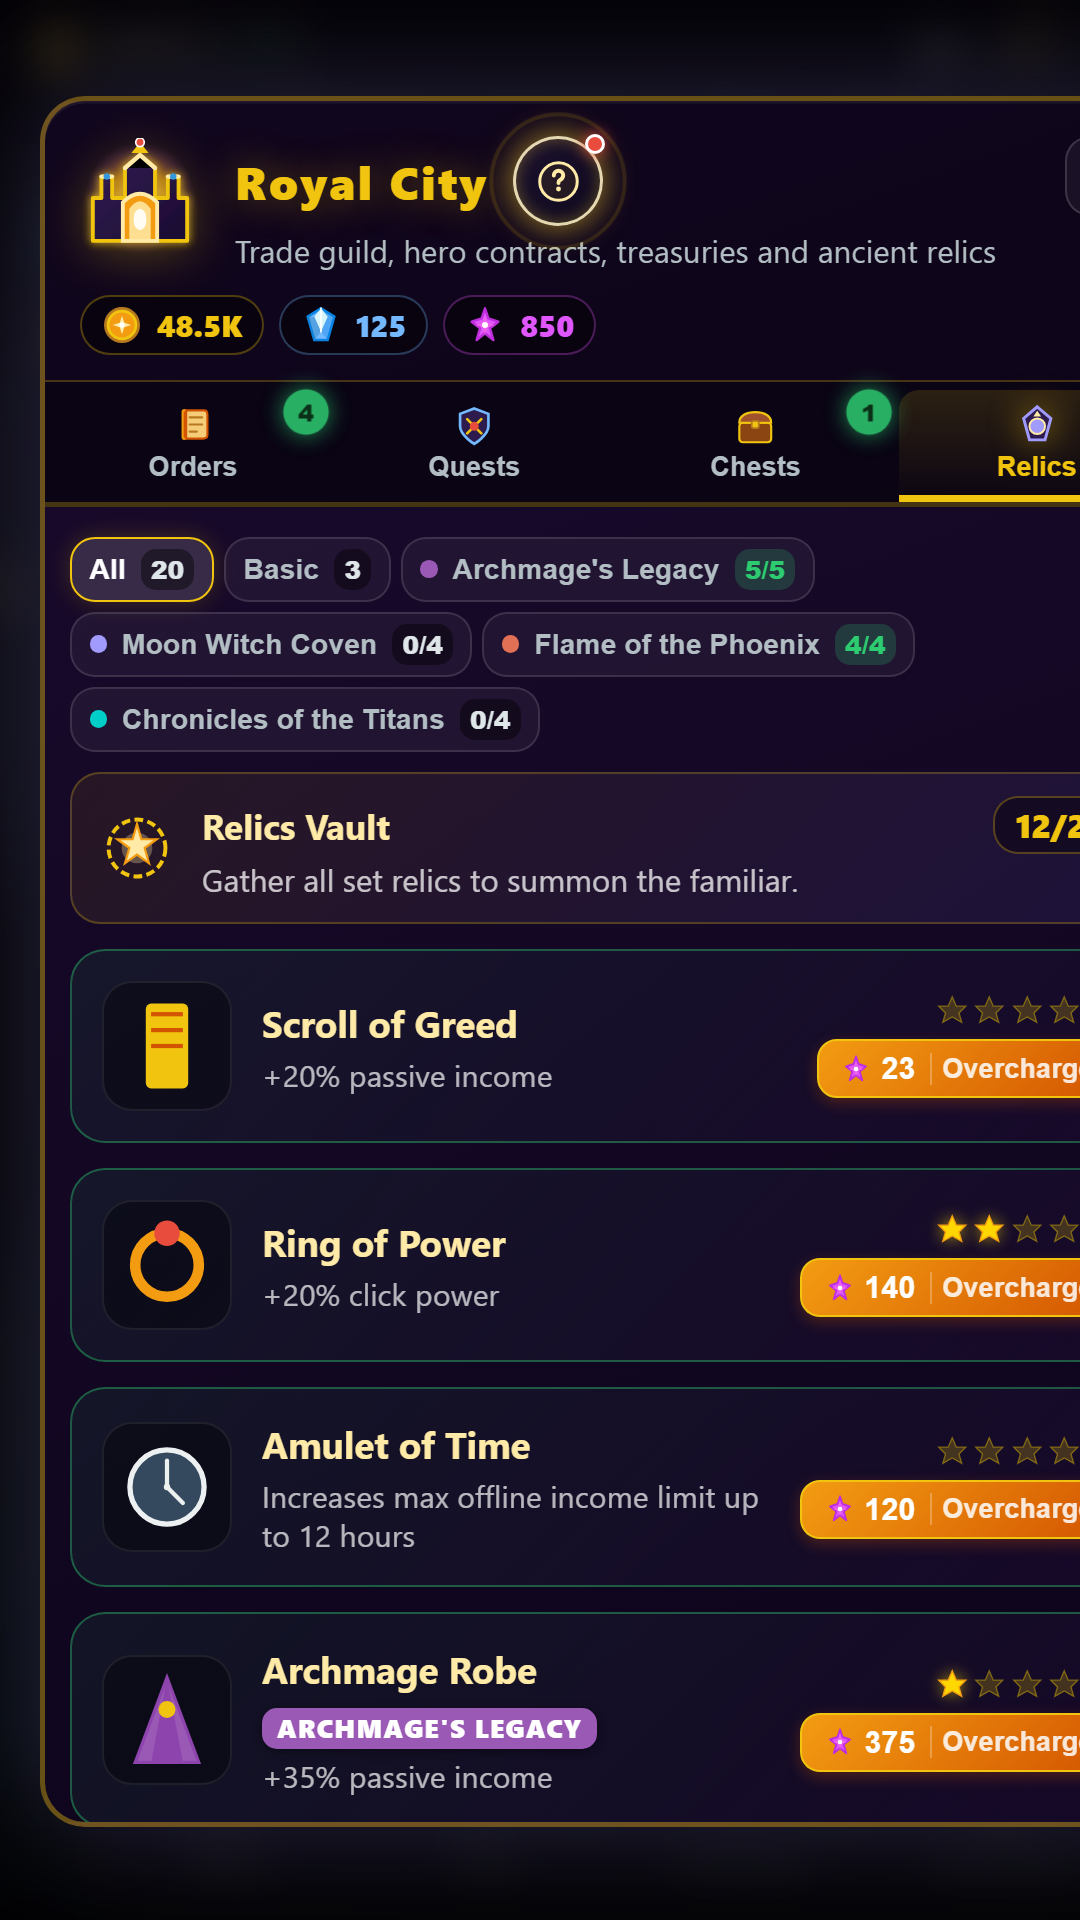
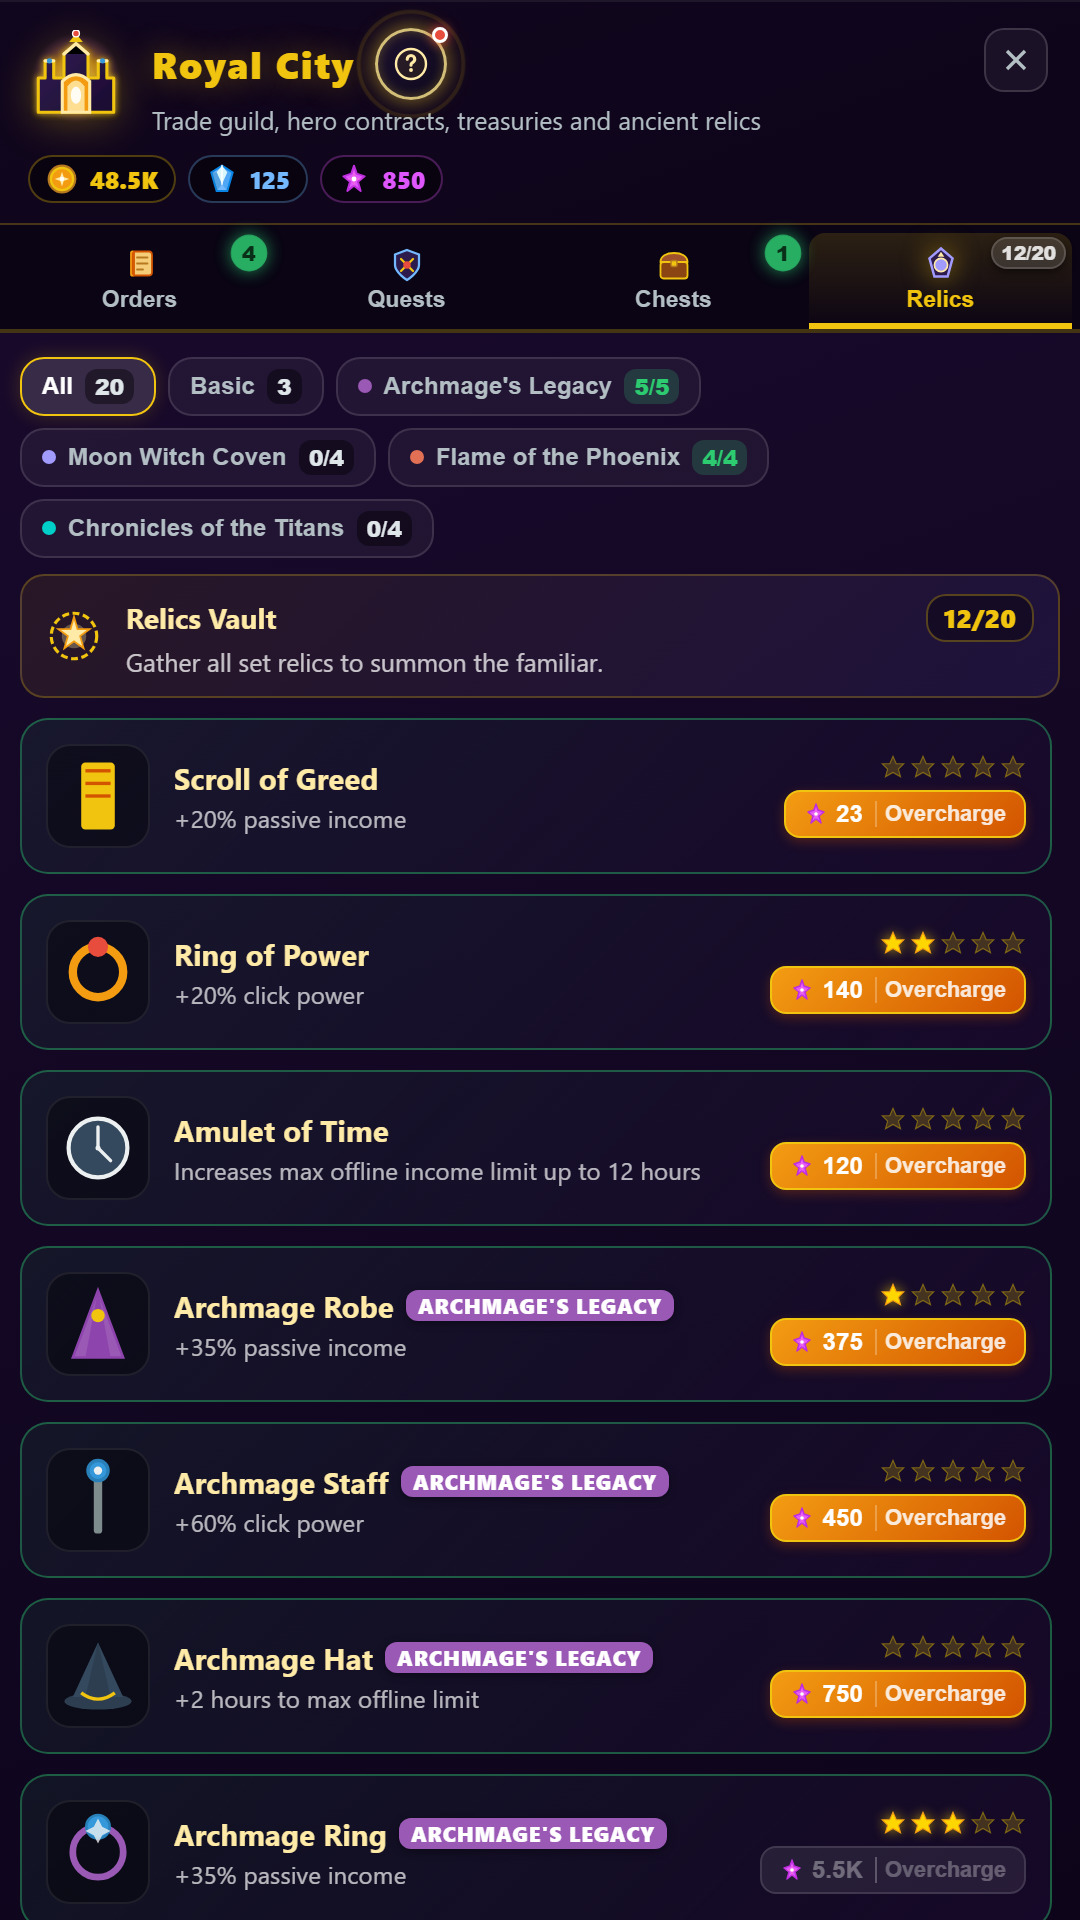
fix(screenshots): improve mobile layout full-bleed and regenerate clean 9:16 screenshots

Changed region(s): [[0.0, 0.0, 1.0, 1.0], [0.8861, 0.0, 0.9778, 0.0625]]

diff --git a/src/components/GrimoireModal.svelte b/src/components/GrimoireModal.svelte
@@ -54,7 +54,8 @@
 
     $: if (isOpen) {
         tick().then(() => {
-            if (overlayEl && modalEl) {
+            const isDemo = typeof window !== 'undefined' && new URLSearchParams(window.location?.search).has('demo');
+            if (overlayEl && modalEl && !isDemo) {
                 gsap.fromTo(overlayEl, { opacity: 0 }, { opacity: 1, duration: 0.25 });
                 gsap.fromTo(modalEl,
                     { y: 35, opacity: 0, scale: 0.94 },
@@ -629,14 +630,18 @@
     }
 
     /* Mobile Responsiveness */
-    @media (max-width: 600px) {
+    @media (max-width: 680px) {
         .overlay {
-            padding: 4px;
+            padding: 0;
         }
         .grimoire-modal {
-            max-height: 96vh;
-            border-radius: 16px;
+            height: 100%;
+            height: 100dvh;
+            max-height: 100dvh;
+            border-radius: 0;
+            border: none;
             width: 100%;
+            max-width: 100%;
             box-sizing: border-box;
         }
         .master-header {
@@ -664,31 +669,29 @@
         }
         .master-tabs {
             grid-template-columns: repeat(4, minmax(0, 1fr));
-            padding: 2px 2px 0;
+            padding: 4px 4px 0;
             gap: 2px;
             box-sizing: border-box;
             width: 100%;
         }
         .tab-btn {
-            padding: 8px 1px 6px;
+            padding: 8px 2px 6px;
             min-width: 0;
         }
         .tab-label {
-            font-size: 0.68rem;
-            overflow: hidden;
-            text-overflow: ellipsis;
+            font-size: 0.72rem;
             white-space: nowrap;
             max-width: 100%;
         }
         .tab-icon-box {
-            width: 20px;
-            height: 20px;
+            width: 22px;
+            height: 22px;
         }
         .tab-badge {
             top: 2px;
-            right: 2px;
-            font-size: 0.6rem;
-            padding: 1px 3px;
+            right: 4px;
+            font-size: 0.62rem;
+            padding: 1px 4px;
         }
     }
 </style>

diff --git a/src/components/CityModal.svelte b/src/components/CityModal.svelte
@@ -42,7 +42,8 @@
 
     $: if (isOpen) {
         tick().then(() => {
-            if (overlayEl && modalEl) {
+            const isDemo = typeof window !== 'undefined' && new URLSearchParams(window.location?.search).has('demo');
+            if (overlayEl && modalEl && !isDemo) {
                 gsap.fromTo(overlayEl, { opacity: 0 }, { opacity: 1, duration: 0.25 });
                 gsap.fromTo(modalEl,
                     { y: 35, opacity: 0, scale: 0.94 },
@@ -587,10 +588,20 @@
     }
 
     /* Mobile Responsive */
-    @media (max-width: 600px) {
+    @media (max-width: 680px) {
+        .overlay {
+            padding: 0;
+        }
+
         .modal-content {
-            max-height: 94vh;
-            border-radius: 18px;
+            height: 100%;
+            height: 100dvh;
+            max-height: 100dvh;
+            border-radius: 0;
+            border: none;
+            width: 100%;
+            max-width: 100%;
+            box-sizing: border-box;
         }
 
         .master-header {
@@ -611,30 +622,31 @@
         }
 
         .city-tabs-bar {
-            padding: 3px 4px 0;
+            padding: 4px 4px 0;
             gap: 2px;
         }
 
         .city-tab {
-            padding: 6px 2px 5px;
+            padding: 7px 2px 5px;
             gap: 2px;
         }
 
         .tab-svg {
-            width: 17px;
-            height: 17px;
+            width: 18px;
+            height: 18px;
         }
 
         .tab-label {
-            font-size: 0.68rem;
+            font-size: 0.72rem;
             line-height: 1.1;
+            white-space: nowrap;
         }
 
         .tab-badge {
-            top: 1px;
-            right: 2px;
-            font-size: 0.52rem;
-            padding: 1px 3px;
+            top: 2px;
+            right: 3px;
+            font-size: 0.58rem;
+            padding: 1px 4px;
         }
 
         .city-content {

diff --git a/src/components/ShopModal.svelte b/src/components/ShopModal.svelte
@@ -980,17 +980,20 @@
     }
 
     /* Responsive Design for Mobile Devices */
-    @media (max-width: 600px) {
+    @media (max-width: 680px) {
         .modal-overlay {
-            padding: 6px;
+            padding: 0;
         }
 
         .modal-content {
             width: 100%;
             max-width: 100%;
             min-width: 0;
-            max-height: 94vh;
-            border-radius: 18px;
+            height: 100%;
+            height: 100dvh;
+            max-height: 100dvh;
+            border-radius: 0;
+            border: none;
             box-sizing: border-box;
         }
 

diff --git a/vite.config.ts b/vite.config.ts
@@ -86,6 +86,8 @@ export default defineConfig({
   base: './',
   plugins: [svelte(), yandexSdkDevMockPlugin()],
   server: {
+    host: '0.0.0.0',
+    port: 5173,
     open: false,
   },
 })

diff --git a/scripts/generate_mobile_screenshots.py b/scripts/generate_mobile_screenshots.py
@@ -36,10 +36,13 @@ def main():
         lang_dir.mkdir(parents=True, exist_ok=True)
         print(f"\n--- Язык: {lang.upper()} ---")
         
+        # Remove any old .jpg duplicates
+        for old_jpg in lang_dir.glob("*.jpg"):
+            old_jpg.unlink()
+        
         for name, path_template in scenes:
             url = base_url + path_template.format(lang=lang)
             out_png = lang_dir / f"{name}.png"
-            out_jpg = lang_dir / f"{name}.jpg"
             
             print(f"Снимок {name} [{lang}]...")
             
@@ -47,8 +50,8 @@ def main():
                 chrome_path,
                 "--headless=new",
                 f"--screenshot={temp_file}",
-                "--window-size=432,768",
-                "--force-device-scale-factor=2.5",
+                "--window-size=540,960",
+                "--force-device-scale-factor=2.0",
                 "--disable-gpu",
                 "--hide-scrollbars",
                 url
@@ -60,26 +63,22 @@ def main():
                 continue
                 
             with Image.open(temp_file) as im:
-                # Ensure 1080x1920
+                # Ensure exactly 1080x1920 (9:16)
                 if im.size != (1080, 1920):
                     im = im.resize((1080, 1920), Image.Resampling.LANCZOS)
                 
                 # Convert to RGB (24-bit Truecolor, NO alpha channel)
                 rgb_im = im.convert("RGB")
                 
-                # Save 24-bit PNG
+                # Save 24-bit PNG without alpha channel
                 rgb_im.save(out_png, format="PNG")
                 
-                # Save high quality JPEG (quality 95)
-                rgb_im.save(out_jpg, format="JPEG", quality=95, optimize=True)
-                
-            print(f"  -> Сохранено: {out_png.relative_to(root_dir)} ({out_png.stat().st_size:,} байт)")
-            print(f"  -> Сохранено: {out_jpg.relative_to(root_dir)} ({out_jpg.stat().st_size:,} байт)")
+            print(f"  -> Сохранено: {out_png.relative_to(root_dir)} ({out_png.stat().st_size:,} байт, 1080x1920 24-bit PNG)")
             
             if temp_file.exists():
                 temp_file.unlink()
                 
-    print("\n=== Все 15 мобильных скриншотов успешно созданы! ===")
+    print("\n=== Все 15 мобильных скриншотов успешно созданы без дубликатов и обрезки! ===")
 
 if __name__ == "__main__":
     main()
